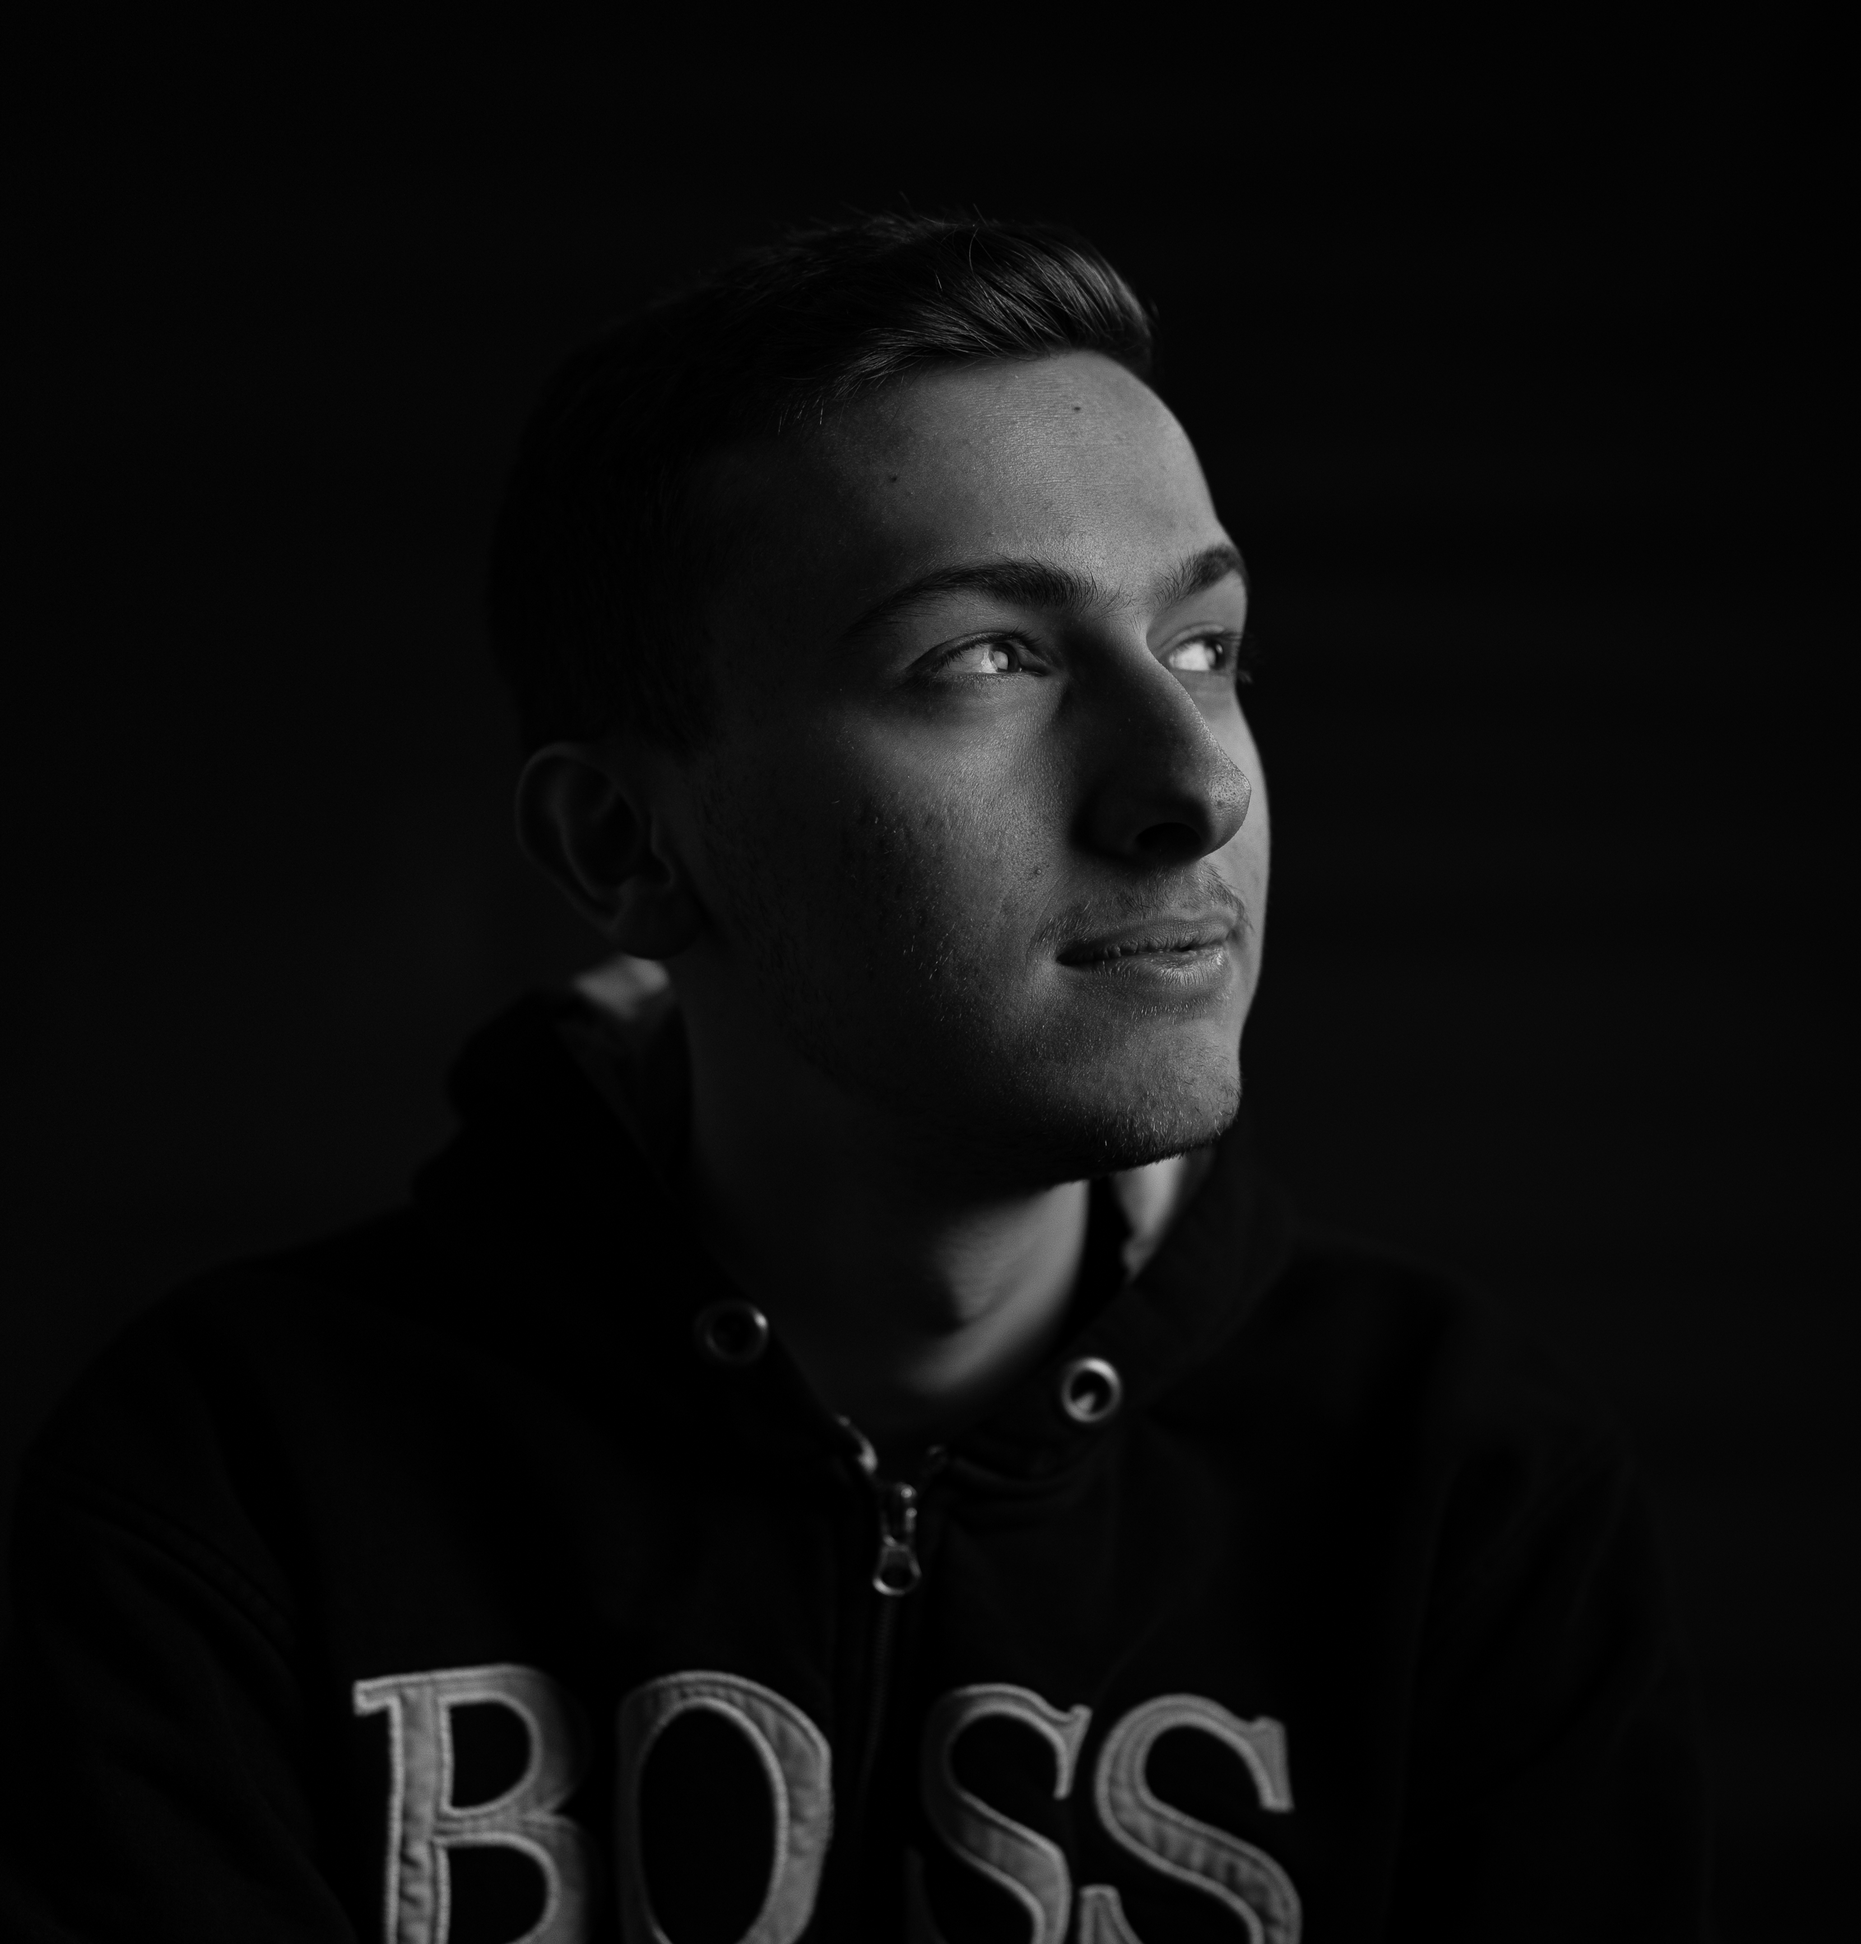
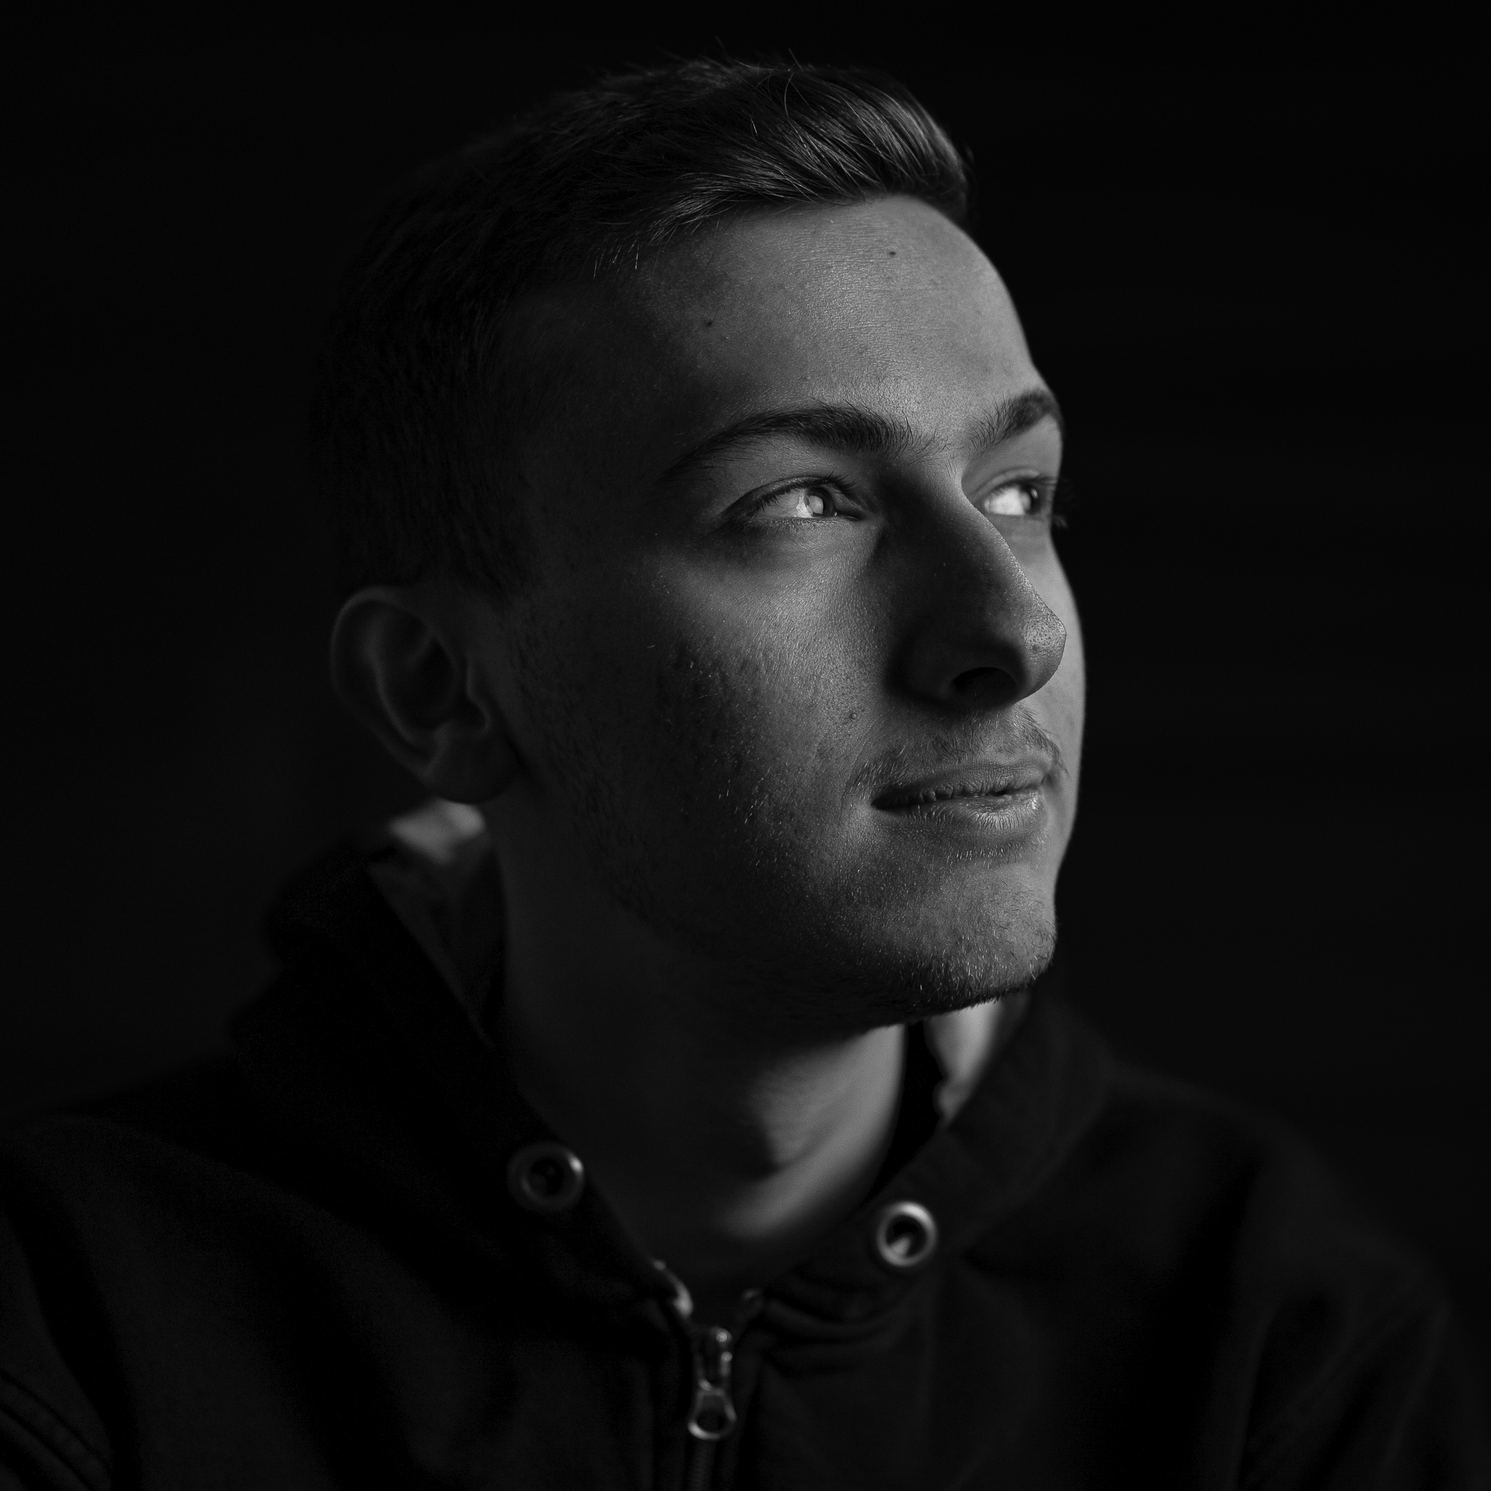
Cropped Profile Picture

diff --git a/src/components/About/AboutCard.vue b/src/components/About/AboutCard.vue
@@ -18,7 +18,7 @@
           height="552"
           src="/assets/pfp.jpg"
           role="presentation"
-          class="cld-responsive absolute object-cover object-[center_20%] w-full h-96 lg:h-full" />
+          class="cld-responsive absolute object-cover sm:object-scale-down lg:object-cover object-[center_20%] w-full h-96 lg:h-full" />
       </div>
       <div
         class="pt-6 p-8 text-left lg:mb-0 w-full gap-4 flex flex-col justify-between h-full max-w-prose"></div>
@@ -39,7 +39,7 @@
         height="552"
         src="/assets/pfp.jpg"
         alt="Rony Majzoub Picture Low-Resolution"
-        class="cld-responsive absolute object-cover object-[center_20%] w-full h-96 lg:h-full text-[0] bg-black" />
+        class="cld-responsive absolute object-cover sm:object-scale-down lg:object-cover object-[center_20%] w-full h-96 lg:h-full text-[0] bg-[#070707]" />
       <!-- Sharp Final Image (Cloudinary) -->
       <img
         :data-src="`https://res.cloudinary.com/rony-majzoub/image/upload/c_scale,w_auto,q_auto,f_auto,fl_progressive/dpr_3.0/${imageLink}`"
@@ -47,7 +47,7 @@
         height="552"
         src="/assets/pfp.jpg"
         alt="Rony Majzoub Picture High-Resolution"
-        class="cld-responsive high-def absolute object-cover object-[center_20%] w-full h-96 lg:h-full text-[0]" />
+        class="cld-responsive high-def absolute object-cover sm:object-scale-down lg:object-cover object-[center_20%] w-full h-96 lg:h-full text-[0]" />
     </div>
     <div
       class="pt-6 p-8 text-left lg:mb-0 w-full gap-4 flex flex-col justify-between h-full max-w-prose">
@@ -101,7 +101,7 @@ export default {
   },
   props: {
     imageLink: {
-      default: "v1652044758/portfolio/pfp_o5mrxd.jpg",
+      default: "v1653220647/portfolio/pfp_new.jpg",
       type: String,
     },
   },
